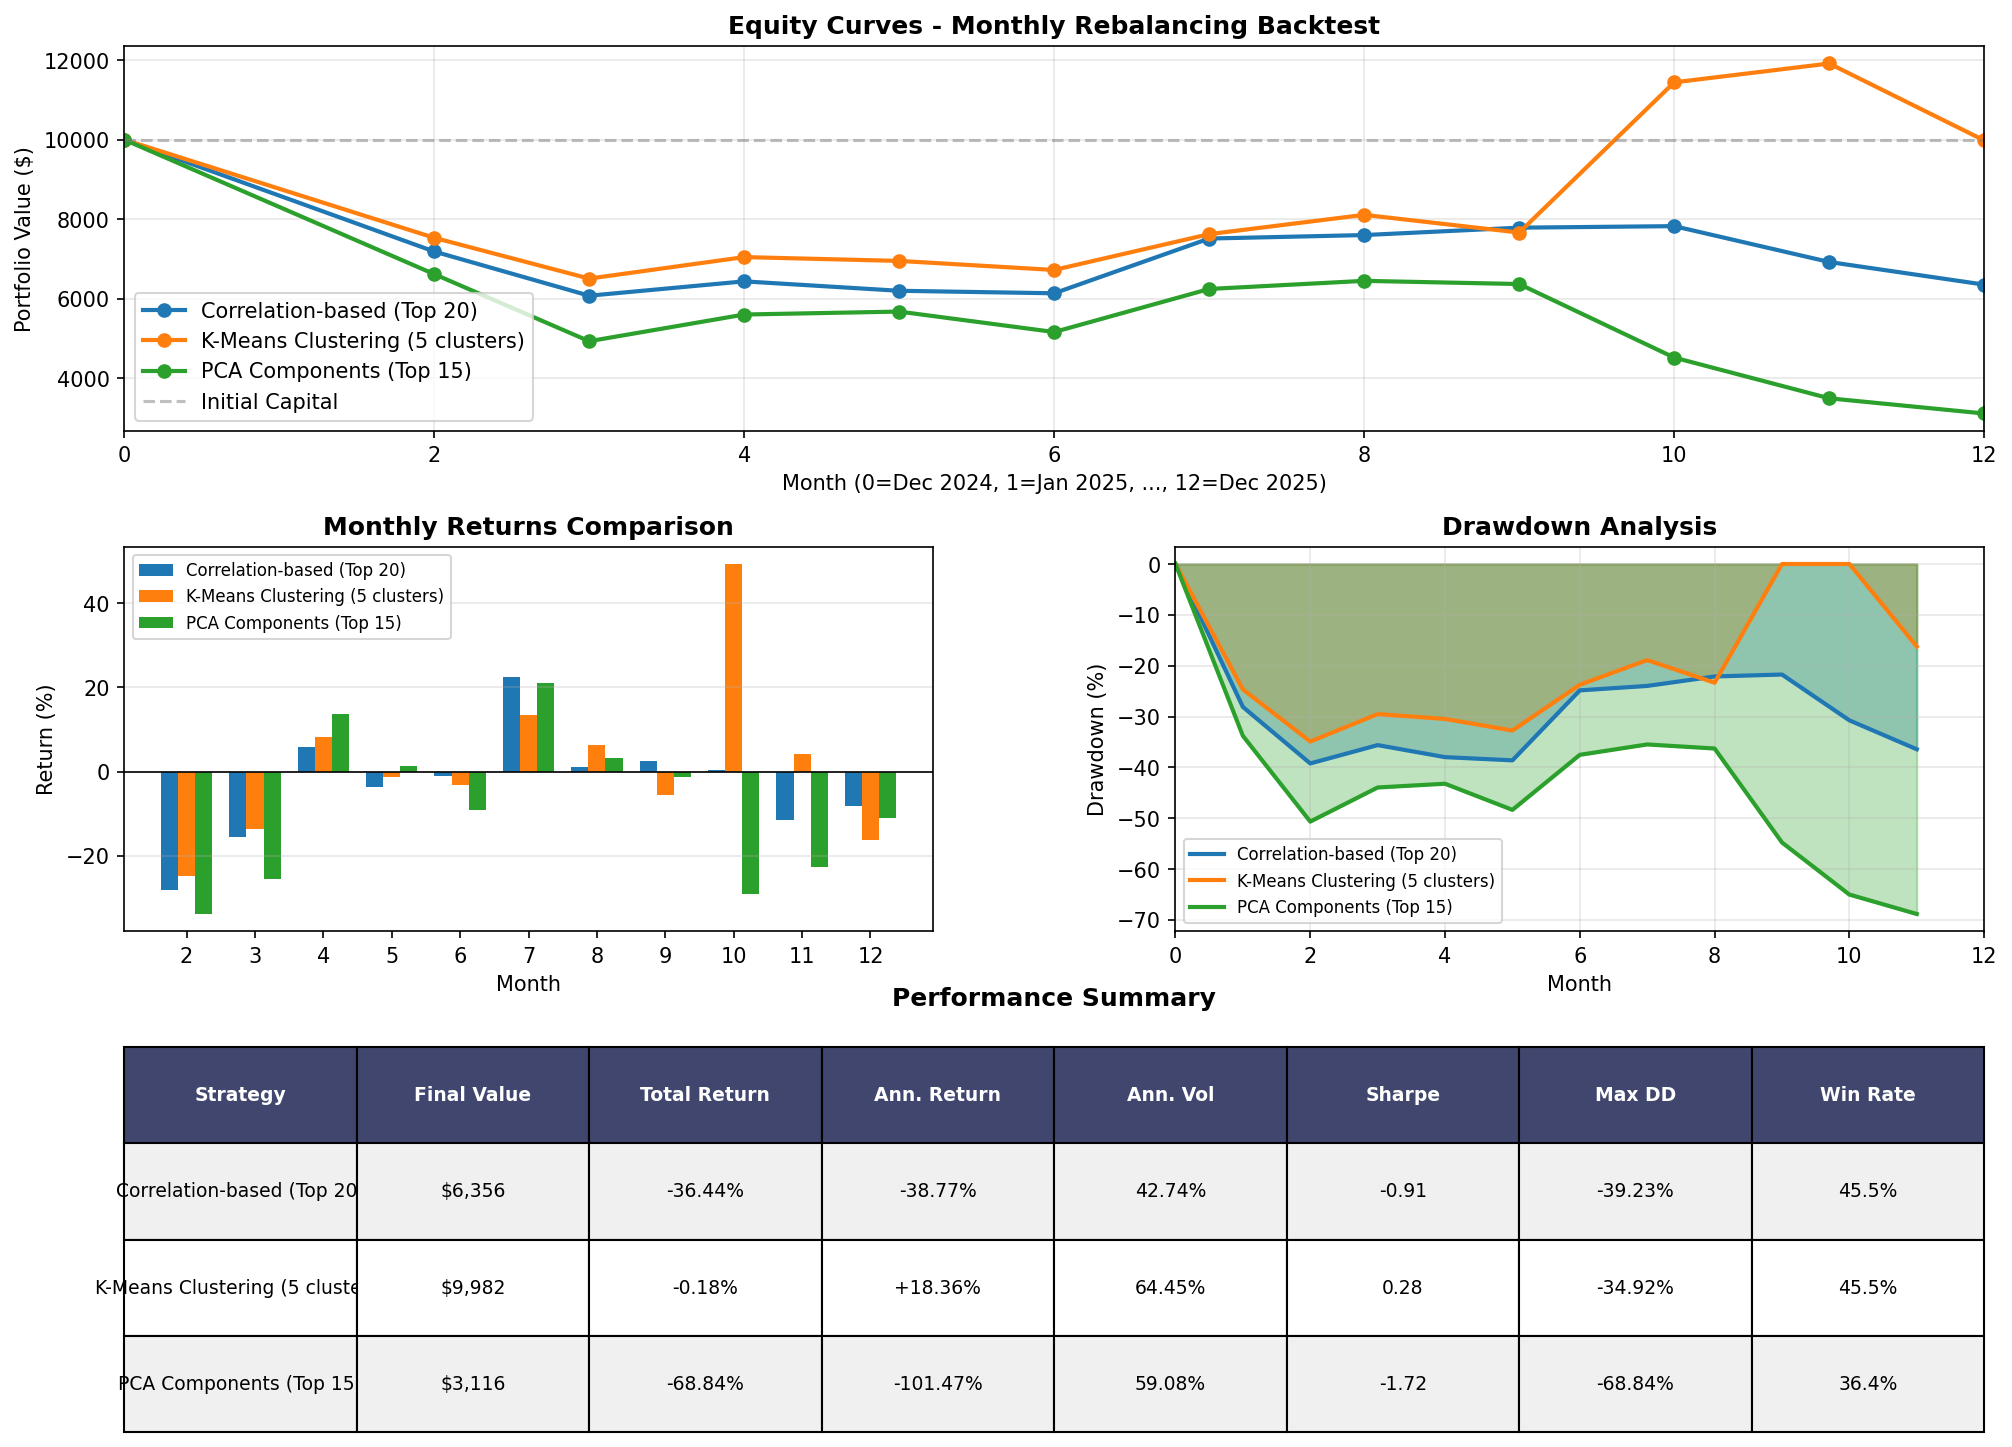
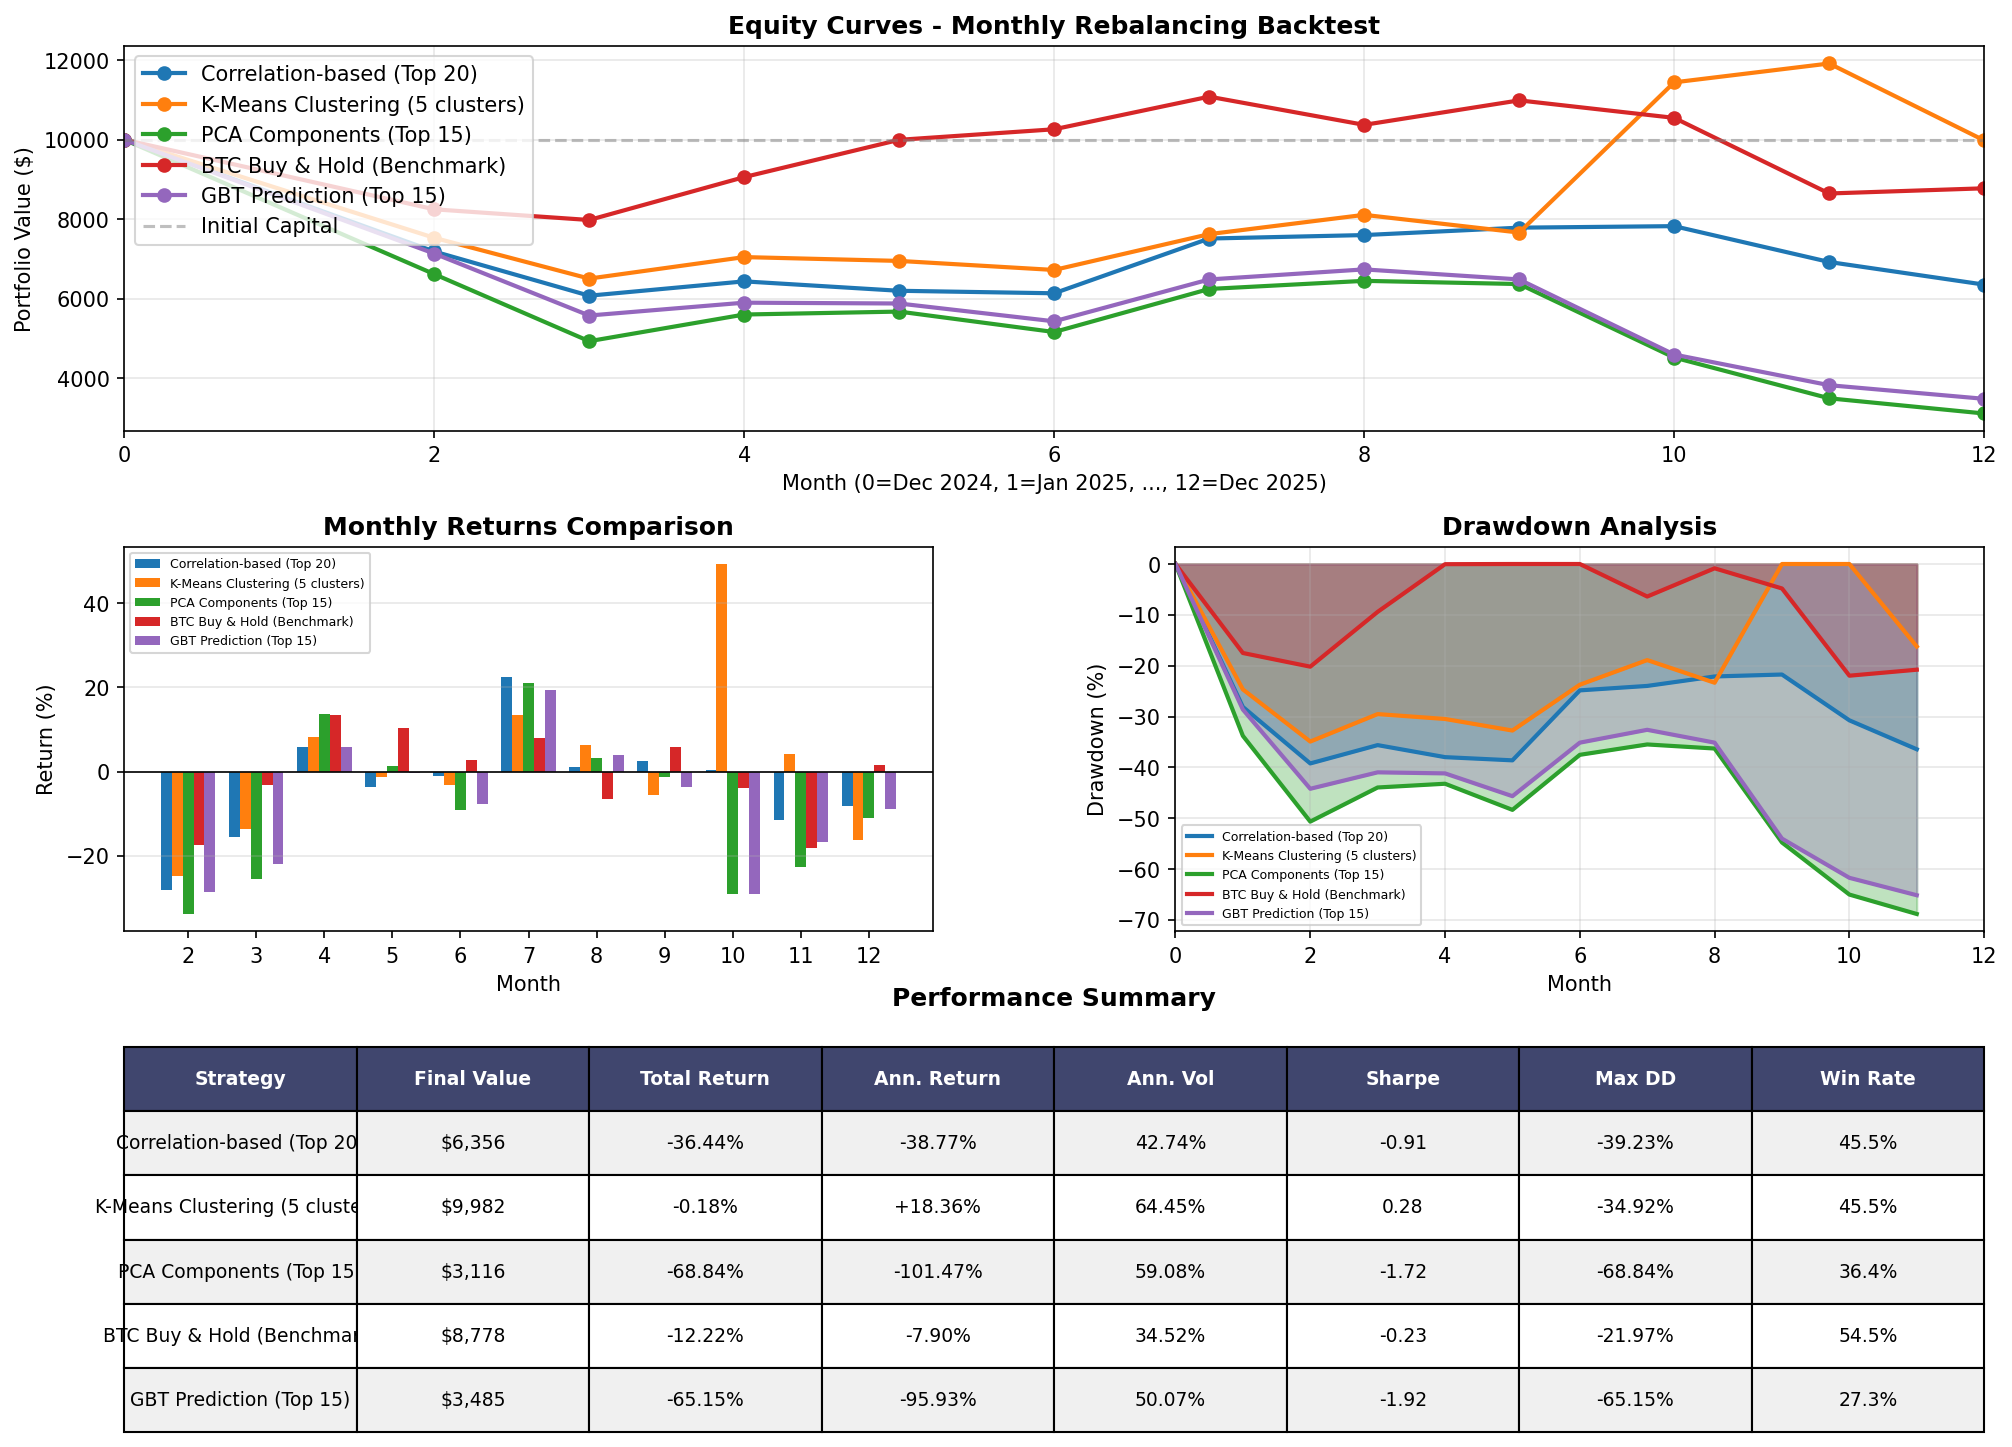
xgboost

diff --git a/backtest_crypto_index.py b/backtest_crypto_index.py
@@ -52,6 +52,7 @@ TOP_N_ASSETS = 20
 N_CLUSTERS = 5
 N_PCA_COMPONENTS = 10
 TOP_PCA_ASSETS = 15
+TOP_GBT_ASSETS = 15  # Number of assets to select based on GBT predictions
 
 # Constants
 CANDLES_PER_DAY = 6  # 4-hour candles
@@ -478,6 +479,105 @@ def stage3d_portfolio_btc():
     })
 
 # =============================================================================
+# STAGE 3E: PORTFOLIO E - GBT PREDICTION STRATEGY
+# =============================================================================
+
+def engineer_features_for_gbt(long_df, month_id):
+    """Create technical features from price data for GBT prediction."""
+    # Filter to specific month
+    month_data = long_df.filter(F.col("month_id") == month_id)
+
+    window = Window.partitionBy("symbol").orderBy("timestamp")
+
+    # Lagged returns
+    df = month_data.withColumn("prev_close", F.lag("close").over(window))
+    df = df.withColumn("log_ret", F.log(F.col("close") / F.col("prev_close")))
+    df = df.withColumn("ret_lag1", F.lag("log_ret", 1).over(window))
+    df = df.withColumn("ret_lag2", F.lag("log_ret", 2).over(window))
+    df = df.withColumn("ret_lag3", F.lag("log_ret", 3).over(window))
+
+    # Moving averages (7 and 30 periods)
+    ma7 = F.avg("close").over(window.rowsBetween(-6, 0))
+    ma30 = F.avg("close").over(window.rowsBetween(-29, 0))
+    df = df.withColumn("ma7", ma7)
+    df = df.withColumn("ma30", ma30)
+    df = df.withColumn("ma_ratio", ma7 / ma30)
+
+    # Rolling volatility (7-period)
+    vol7 = F.stddev("log_ret").over(window.rowsBetween(-6, 0))
+    df = df.withColumn("volatility_7d", vol7)
+
+    # Target: next period return
+    df = df.withColumn("target", F.lead("log_ret", 1).over(window))
+
+    # Drop nulls
+    df = df.dropna()
+
+    feature_cols = ["ret_lag1", "ret_lag2", "ret_lag3", "ma_ratio", "volatility_7d"]
+
+    return df, feature_cols
+
+def stage3e_portfolio_gbt(long_df, month_id):
+    """
+    GBT prediction-based strategy.
+
+    Algorithm:
+    1. Engineer technical features (lagged returns, moving averages, volatility)
+    2. Train GBT Regressor to predict next-period returns
+    3. Predict expected returns for all assets
+    4. Select top N assets by predicted return
+    5. Weight by normalized predicted return (higher prediction = higher weight)
+
+    Returns:
+        DataFrame with (symbol, weight, predicted_return)
+    """
+    from pyspark.ml.regression import GBTRegressor
+    from pyspark.ml.feature import VectorAssembler
+
+    try:
+        # Engineer features
+        df, feature_cols = engineer_features_for_gbt(long_df, month_id)
+
+        # Assemble features
+        assembler = VectorAssembler(inputCols=feature_cols, outputCol="features")
+        df = assembler.transform(df).select("symbol", "features", "target")
+
+        # Train GBT
+        gbt = GBTRegressor(featuresCol="features", labelCol="target",
+                          maxIter=20, maxDepth=5, seed=42)
+        model = gbt.fit(df)
+
+        # Make predictions on all data
+        predictions = model.transform(df.select("symbol", "features"))
+
+        # Aggregate predictions by symbol (take mean prediction)
+        symbol_predictions = predictions.groupBy("symbol").agg(
+            F.mean("prediction").alias("predicted_return")
+        )
+
+        # Convert to pandas for portfolio construction
+        pred_pdf = symbol_predictions.toPandas()
+
+        # Select top N by predicted return
+        pred_pdf = pred_pdf.sort_values('predicted_return', ascending=False).head(TOP_GBT_ASSETS)
+
+        # Weight by normalized predicted return (shift to make all positive)
+        # Add constant to ensure all weights are positive
+        min_pred = pred_pdf['predicted_return'].min()
+        if min_pred < 0:
+            pred_pdf['adj_pred'] = pred_pdf['predicted_return'] - min_pred + 0.001
+        else:
+            pred_pdf['adj_pred'] = pred_pdf['predicted_return'] + 0.001
+
+        pred_pdf['weight'] = pred_pdf['adj_pred'] / pred_pdf['adj_pred'].sum()
+
+        return pred_pdf[['symbol', 'weight', 'predicted_return']]
+
+    except Exception as e:
+        # If GBT fails, return empty DataFrame
+        return pd.DataFrame({'symbol': [], 'weight': [], 'predicted_return': []})
+
+# =============================================================================
 # STAGE 4: BACKTEST EXECUTION
 # =============================================================================
 
@@ -589,6 +689,19 @@ def stage4_run_backtest(long_df, symbols, month_pairs):
             print(f"    Portfolio D FAILED: {e}")
             ret_d, n_d = 0.0, 0
 
+        # Strategy E: GBT Prediction
+        try:
+            weights_e = stage3e_portfolio_gbt(long_df, lookback_month)
+            if len(weights_e) > 0:
+                ret_e, n_e = stage4_backtest_month(long_df, weights_e, holding_month)
+                print(f"    Portfolio E (GBT): {n_e} assets, return: {ret_e:+.4f}")
+            else:
+                ret_e, n_e = 0.0, 0
+                print(f"    Portfolio E (GBT): FAILED (no predictions)")
+        except Exception as e:
+            print(f"    Portfolio E FAILED: {e}")
+            ret_e, n_e = 0.0, 0
+
         # Store results
         results.append({
             'month': backtest_month,
@@ -613,6 +726,12 @@ def stage4_run_backtest(long_df, symbols, month_pairs):
             'strategy': 'D',
             'month_return': ret_d,
             'num_assets': n_d
+        })
+        results.append({
+            'month': backtest_month,
+            'strategy': 'E',
+            'month_return': ret_e,
+            'num_assets': n_e
         })
 
     results_df = pd.DataFrame(results)
@@ -646,7 +765,7 @@ def stage5_calculate_performance(results_df):
     performance = []
     equity_data = []
 
-    for strategy in ['A', 'B', 'C', 'D']:
+    for strategy in ['A', 'B', 'C', 'D', 'E']:
         strategy_data = results_df[results_df['strategy'] == strategy].copy()
         strategy_data = strategy_data.sort_values('month')
 
@@ -731,18 +850,19 @@ def stage6_visualize(results_df, performance_df, equity_df, output_folder):
     gs = fig.add_gridspec(3, 2, hspace=0.3, wspace=0.3)
 
     # Define colors for strategies
-    colors = {'A': '#1f77b4', 'B': '#ff7f0e', 'C': '#2ca02c', 'D': '#d62728'}
+    colors = {'A': '#1f77b4', 'B': '#ff7f0e', 'C': '#2ca02c', 'D': '#d62728', 'E': '#9467bd'}
     strategy_names = {
         'A': 'Correlation-based (Top 20)',
         'B': 'K-Means Clustering (5 clusters)',
         'C': 'PCA Components (Top 15)',
-        'D': 'BTC Buy & Hold (Benchmark)'
+        'D': 'BTC Buy & Hold (Benchmark)',
+        'E': 'GBT Prediction (Top 15)'
     }
 
     # Plot 1: Equity Curves
     ax1 = fig.add_subplot(gs[0, :])
 
-    for strategy in ['A', 'B', 'C', 'D']:
+    for strategy in ['A', 'B', 'C', 'D', 'E']:
         strategy_equity = equity_df[equity_df['strategy'] == strategy].sort_values('month')
         months = [0] + strategy_equity['month'].tolist()
         values = [INITIAL_CAPITAL] + strategy_equity['portfolio_value'].tolist()
@@ -761,10 +881,10 @@ def stage6_visualize(results_df, performance_df, equity_df, output_folder):
     ax2 = fig.add_subplot(gs[1, 0])
 
     months = sorted(results_df['month'].unique())
-    width = 0.2
+    width = 0.16
     x = np.arange(len(months))
 
-    for i, strategy in enumerate(['A', 'B', 'C', 'D']):
+    for i, strategy in enumerate(['A', 'B', 'C', 'D', 'E']):
         strategy_returns = results_df[results_df['strategy'] == strategy].sort_values('month')
         returns = strategy_returns['month_return'].values * 100
         ax2.bar(x + i*width, returns, width, label=strategy_names[strategy], color=colors[strategy])
@@ -773,15 +893,15 @@ def stage6_visualize(results_df, performance_df, equity_df, output_folder):
     ax2.set_xlabel('Month', fontsize=10)
     ax2.set_ylabel('Return (%)', fontsize=10)
     ax2.set_title('Monthly Returns Comparison', fontsize=12, fontweight='bold')
-    ax2.set_xticks(x + width*1.5)
+    ax2.set_xticks(x + width*2)
     ax2.set_xticklabels(months)
-    ax2.legend(loc='best', fontsize=7)
+    ax2.legend(loc='best', fontsize=6)
     ax2.grid(True, alpha=0.3, axis='y')
 
     # Plot 3: Drawdown Analysis
     ax3 = fig.add_subplot(gs[1, 1])
 
-    for strategy in ['A', 'B', 'C', 'D']:
+    for strategy in ['A', 'B', 'C', 'D', 'E']:
         strategy_equity = equity_df[equity_df['strategy'] == strategy].sort_values('month')
         values = np.array([INITIAL_CAPITAL] + strategy_equity['portfolio_value'].tolist())
         running_max = np.maximum.accumulate(values)
@@ -795,7 +915,7 @@ def stage6_visualize(results_df, performance_df, equity_df, output_folder):
     ax3.set_xlabel('Month', fontsize=10)
     ax3.set_ylabel('Drawdown (%)', fontsize=10)
     ax3.set_title('Drawdown Analysis', fontsize=12, fontweight='bold')
-    ax3.legend(loc='best', fontsize=8)
+    ax3.legend(loc='best', fontsize=6)
     ax3.grid(True, alpha=0.3)
     ax3.set_xlim(0, 12)
 
@@ -834,7 +954,6 @@ def stage6_visualize(results_df, performance_df, equity_df, output_folder):
 
     # Color rows
     for i in range(len(table_data)):
-        strategy = ['A', 'B', 'C'][i]
         for j in range(len(headers)):
             table[(i+1, j)].set_facecolor('#f0f0f0' if i % 2 == 0 else 'white')
 
@@ -866,7 +985,7 @@ def main():
         print(f"Initial Capital: ${INITIAL_CAPITAL:,.2f}")
         print(f"Backtest Period: Feb 2025 - Dec 2025 (11 months)")
         print(f"Lookback Window: {LOOKBACK_MONTHS} month(s)")
-        print(f"Strategies: A (Correlation), B (K-Means), C (PCA), D (BTC Benchmark)")
+        print(f"Strategies: A (Correlation), B (K-Means), C (PCA), D (BTC), E (GBT)")
 
         # Stage 1: Ingest data
         long_df, symbols = stage1_ingest_data(spark)
@@ -926,6 +1045,7 @@ if __name__ == "__main__":
         'A': 'Correlation-based (Top 20)',
         'B': 'K-Means Clustering (5 clusters)',
         'C': 'PCA Components (Top 15)',
-        'D': 'BTC Buy & Hold (Benchmark)'
+        'D': 'BTC Buy & Hold (Benchmark)',
+        'E': 'GBT Prediction (Top 15)'
     }
     main()
